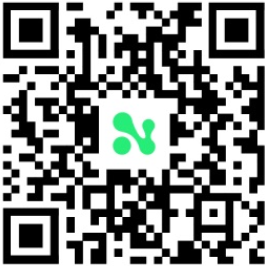
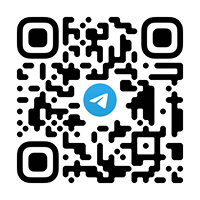
优化

diff --git a/src/pages/main/home/HomePage.tsx b/src/pages/main/home/HomePage.tsx
@@ -232,17 +232,19 @@ export function HomePage({ config = HOME_PAGE_CONFIG, purchasing = false, purcha
                 <div className="home-page__partners" aria-label={t('home.mediaTitle')} style={{ '--media-scroll-duration': `${config.mediaScrollDurationSeconds}s` } as CSSProperties}><PartnerRow start={0} /><PartnerRow start={10} /></div>
             </section>
             <footer className="home-page__footer">
-                <img className="home-page__footer-brand" src={`${APP_CONFIG.routeBase}${APP_CONFIG.brandWordmarkPath}`} alt={APP_CONFIG.name || 'NodeXX'} loading="lazy" />
+                <img className="home-page__footer-brand" src={`${APP_CONFIG.routeBase}${APP_CONFIG.brandWordmarkPath}`} alt={APP_CONFIG.name || 'NBXX'} loading="lazy" />
                 <p className="home-page__tagline tc size-24">{t('home.tagline')}</p>
-                <div className="home-page__contacts">
-                    <div className="home-page__links">
-                        <div><h3 className="home-page__link-heading size-24">{t('home.websiteLabel')}</h3><a className="home-page__link size-24" href={config.links.website} target="_blank" rel="noopener noreferrer">{config.links.website}</a></div>
-                        <a className="home-page__twitter" href={config.links.social} target="_blank" rel="noopener noreferrer" aria-label={t('home.twitterLabel')}>
-                            <span className="home-page__twitter-icon"><img src={HOME_ART.twitterIcon} alt="" /></span>
-                            <span className="home-page__twitter-text">{t('home.twitter')}</span>
-                        </a>
-                    </div>
-                    <div className="home-page__qr flex items-center justify-center"><img src={HOME_ART.communityQr} alt={t('home.communityQr')} loading="lazy" /></div>
+                <div className="home-page__social-links">
+                    <a className="home-page__twitter" href={config.links.social} target="_blank" rel="noopener noreferrer" aria-label={t('home.twitterLabel')}>
+                        <span className="home-page__twitter-icon"><img src={HOME_ART.twitterIcon} alt="" /></span>
+                        <span className="home-page__twitter-text">{t('home.twitter')}</span>
+                    </a>
+                    <a className="home-page__telegram" href={config.links.telegram} target="_blank" rel="noopener noreferrer" aria-label={t('home.telegramLabel')}>
+                        <img src={HOME_ART.telegramLink} alt="Telegram" loading="lazy" />
+                    </a>
+                    <a className="home-page__debox" href={config.links.debox} target="_blank" rel="noopener noreferrer" aria-label={t('home.deboxLabel')}>
+                        <img src={HOME_ART.deboxLink} alt="DeBox" loading="lazy" />
+                    </a>
                 </div>
             </footer>
             <Toast message={message} variant={variant} />

diff --git a/src/pages/main/home/HomePage.scss b/src/pages/main/home/HomePage.scss
@@ -287,12 +287,17 @@ html:has(.home-page) { @include hide-scrollbar; }
             pointer-events: none;
         }
     }
-    &__footer-brand { width: 238px; height: 52px; margin: 0 auto; object-fit: fill; }
+    &__footer-brand { width: 238px; height: 238px; margin: 0 auto; object-fit: contain; }
     &__tagline { min-height: 34px; margin-top: 20px; color: var(--app-text-muted); }
-    &__contacts { display: grid; grid-template-columns: minmax(0, 1fr) 200px; column-gap: 30px; margin-top: 60px; }
-    &__links { display: flex; flex-direction: column; align-items: flex-start; gap: 40px; min-width: 0; padding-top: 10px; }
-    &__link-heading { min-height: 34px; font-weight: 400; }
-    &__link { display: block; margin-top: 12px; color: var(--app-color); line-height: 33.599998474121094px; text-decoration: underline; overflow-wrap: anywhere; }
+    &__social-links { display: flex; flex-wrap: wrap; align-items: center; justify-content: center; gap: 20px; margin-top: 60px; }
+    &__debox, &__telegram {
+        display: inline-flex;
+        flex: none;
+        border-radius: 999px;
+        img { width: 159px; height: 60px; object-fit: contain; }
+        &:focus-visible { outline: 2px solid var(--app-color); outline-offset: 4px; }
+    }
+    &__telegram img { width: 191px; }
     &__twitter {
         display: inline-flex;
         align-items: center;
@@ -306,7 +311,6 @@ html:has(.home-page) { @include hide-scrollbar; }
     }
     &__twitter-icon { flex: none; width: 48px; height: 48px; border-radius: 999px; background: var(--app-btn-color); img { width: 100%; height: 100%; } }
     &__twitter-text { width: 81px; font-size: 24px; font-weight: 600; line-height: 33.599998474121094px; letter-spacing: 0; }
-    &__qr { width: 200px; height: 200px; border-radius: 20px; background: #FFFFFF; img { width: 168px; height: 168px; } }
 
     &--translated {
         .home-page__limited-align { padding-left: 0; }

diff --git a/src/pages/main/home/config.ts b/src/pages/main/home/config.ts
@@ -38,7 +38,7 @@ export interface HomePageConfig {
     invitationText: string
     teamMembers: readonly TeamMember[]
     mediaScrollDurationSeconds: number
-    links: { website: string; social: string }
+    links: { social: string; telegram: string; debox: string }
 }
 
 // Display values from Figma, not contract amounts or live platform statistics.
@@ -57,12 +57,12 @@ export const HOME_PAGE_CONFIG: HomePageConfig = {
         {
             id: 'basic', price: '500', supply: 1500,
             dividendRate: '3%', buyFee: '1.5%', sellFee: '1.5%',
-            dailyMiningRate: '0.5%', daoVotes: 5, taxRate: '2%', credit: '1000',
+            dailyMiningRate: '0.5%', daoVotes: 5, taxRate: '1%', credit: '1000',
         },
         {
             id: 'premium', price: '1000', supply: 500,
             dividendRate: '4%', buyFee: '1.5%', sellFee: '1.5%',
-            dailyMiningRate: '1%', daoVotes: 10, taxRate: '3%', credit: '3000',
+            dailyMiningRate: '1%', daoVotes: 10, taxRate: '2%', credit: '3000',
         },
     ],
     metrics: [
@@ -72,8 +72,9 @@ export const HOME_PAGE_CONFIG: HomePageConfig = {
         { id: 'personal-performance', labelKey: 'home.team.personalPerformanceUnit', value: '74,000.62', featured: false },
     ],
     links: {
-        website: 'https://www.nodexx.co/zh-CN',
-        social: 'https://x.com/NodeXX_cn',
+        social: 'https://x.com/bnxxapk?s=11',
+        telegram: 'https://t.co/plo9EMr0ak',
+        debox: 'https://m.debox.pro/group?id=jj2kzzwd&code=4jdvg695',
     },
 }
 

diff --git a/src/pages/main/home/assets.ts b/src/pages/main/home/assets.ts
@@ -1,4 +1,6 @@
 import footerBackground from '@/assets/home/footer-space-background-3e7247.png'
+import deboxLink from '@/assets/home/debox-link.png'
+import telegramLink from '@/assets/home/telegram-link.png'
 import heroBackground from '@/assets/home/hero-space-background-68905c.png'
 import crown from '@/assets/home/nft-crown.png'
 import orbLeft from '@/assets/home/hero-orb-left-5ad938.png'
@@ -21,7 +23,6 @@ import creditIcon from '@/assets/home/benefit-credit-46d70f.png'
 import contractIcon from '@/assets/home/assurance-contract-274b00.png'
 import limitedIcon from '@/assets/home/assurance-limited-784115.png'
 import shareholderIcon from '@/assets/home/assurance-shareholder-5b7961.png'
-import communityQr from '@/assets/home/community-qr.png'
 import twitterIcon from '@/assets/home/twitter-icon.svg'
 import inviteIcon from '@/assets/home/invite-friends.svg'
 import purchaseBag from '@/assets/home/purchase-bag.svg'
@@ -51,7 +52,7 @@ import partner19 from '@/assets/home/media-partner-row-bottom-10-4f1fe6.png'
 
 export const HOME_ART = {
     heroBackground, footerBackground, crown, orbLeft, orbRight, laurelLeft, laurelRight,
-    checked, communityQr, twitterIcon, inviteIcon, purchaseBag, purchaseArrow, lineLeft, lineRight,
+    checked, twitterIcon, telegramLink, deboxLink, inviteIcon, purchaseBag, purchaseArrow, lineLeft, lineRight,
 }
 
 export const NFT_ART = {

diff --git a/src/pages/main/layout/AppBrand/AppBrand.tsx b/src/pages/main/layout/AppBrand/AppBrand.tsx
@@ -36,7 +36,7 @@ export function AppBrand({
     }
 
     return (
-        <button type="button" className={brandClassName} aria-label={APP_CONFIG.name || 'NodeXX'} onClick={handleBrandClick}>
+        <button type="button" className={brandClassName} aria-label={APP_CONFIG.name || 'NBXX'} onClick={handleBrandClick}>
             <img
                 src={APP_CONFIG.brandWordmarkPath
                     ? `${APP_CONFIG.routeBase}${APP_CONFIG.brandWordmarkPath}`

diff --git a/src/config/app.ts b/src/config/app.ts
@@ -34,7 +34,7 @@ export const APP_LOGIN_MODE_OPTIONS = [
 
 export const APP_CONFIG = {
     name: import.meta.env?.VITE_APP_NAME ?? '',
-    brandWordmarkPath: 'brand/nodexx-wordmark.png',
+    brandWordmarkPath: 'brand/app-logo.png',
     showBrandName: false,
     routeBase: '/h5/',
     routerBasename: '/h5',

diff --git a/src/pages/auth/login/LoginPage.scss b/src/pages/auth/login/LoginPage.scss
@@ -26,7 +26,7 @@
         padding: 60px 0;
         animation-delay: 0.3s;
     }
-    &__logo { width: 320px; height: 160px; object-fit: contain; }
+    &__logo { width: 320px; height: 320px; object-fit: contain; }
     &__tips {
         position: relative;
         display: flex;

diff --git a/src/pages/main/layout/AppBrand/AppBrand.scss b/src/pages/main/layout/AppBrand/AppBrand.scss
@@ -8,7 +8,7 @@
     }
 
     &--wordmark &__logo {
-        width: 183px;
-        height: 40px;
+        width: 80px;
+        height: 80px;
     }
 }

diff --git a/PROJECT_SETUP_STATUS.md b/PROJECT_SETUP_STATUS.md
@@ -1,12 +1,12 @@
 # Project setup status
 # 项目初始化状态
 
-初始化默认配置与展示名称已确认并回填。Logo 和 Empty 资源已由开发者明确跳过，保留生产前补齐项。2026-09-28 开发者授权直接开展首页静态页面开发。
+初始化默认配置与展示名称已确认并回填。Logo 已补齐，Empty 资源仍保留生产前补齐项。2026-09-28 开发者授权直接开展首页静态页面开发。
 
 ## Confirmed
 ## 已确认
 
-- Project display name / 项目展示名称：`NodeXX`，用于浏览器标题和应用文案。
+- Project display name / 项目展示名称：`NBXX`，2026-10-08 开发者确认更名，用于浏览器标题和应用文案。
 - Route base / 部署目录：`/h5/`。
 - Home route / 首页路由：`/home`。
 - Layout menu / 导航模式：`sidebar`；开发者后续要求关闭侧栏图标，`sidebarMenuEnabled=false`，暂不显示入口及侧栏。
@@ -24,7 +24,7 @@ The package name remains fixed as `@jcy/template-react`. These confirmed default
 ## Skipped items and follow-up
 ## 已跳过项与补齐阶段
 
-- Project initialization logo / 项目初始化 Logo：开发者确认早期开发先跳过。正方形 PNG Logo 和由它生成的 favicon 在正式生产构建前补齐；`public/brand/brand-status.json` 的 `isProjectLogoReady` 保持 `false`，生产构建门禁继续生效。首页设计稿的横向 NodeXX 字标已下载，可用于对应页面图层，但不视为初始化 Logo 已就绪。
+- Project initialization logo / 项目初始化 Logo：2026-10-06 开发者提供500×500透明PNG金牛 NBXX Logo，替换 `public/brand/app-logo.png`，顶部、登录页及页脚统一引用并按正方形等比显示；已通过 `pnpm favicon:generate` 生成favicon，`isProjectLogoReady=true`。2026-10-08 展示名称更新为NBXX。
 - Empty-state icon / Empty 空状态图标：开发者确认早期开发先跳过，通用 Empty 组件继续使用模板占位资源；项目专属 PNG 图标准备好后，通过 `pnpm empty:asset -- --input <empty-icon.png>` 更新，并在正式页面验收前补齐。
 
 ## 当前开发阶段

diff --git a/src/pages/auth/login/README.md b/src/pages/auth/login/README.md
@@ -2,9 +2,9 @@
 
 独立 `/login`，不使用 MainLayout 或 PagePullRefresh。参考 `/Users/sly/react_work/HU_CHAIN_Dapp/src/pages/splash/` 的钱包开屏；不是其账号密码登录页。
 
-参考源样式：背景 #040404、底部提示 20px/#8D9094、进入动画延迟 0.3s。保留当前项目横向字标，用 320×160px 容器适配。
+参考源样式：背景 #040404、底部提示 20px/#8D9094、进入动画延迟 0.3s。使用开发者提供的金牛 NBXX 正方形 Logo，用 320×320px 容器等比适配。
 
-排列：居中品牌图片、底部状态提示及 loading，使用 Flex 正常流。星空是唯一 absolute 背景装饰。会话恢复结束后等待1秒入场动画，自动连接钱包、请求签名并登录；无钱包时底部提示使用钱包环境打开。按照开发者红框要求移除语言图标、NodeXX文字标题和所有授权按钮，没有邀请码输入框或授权表单。失败原因显示在底部；刷新后重新尝试，不循环弹签名。复用 Icon；外侧30px padding、品牌320px宽是当前横向资源适配值，不是 HU 原页实测尺寸。
+排列：居中品牌图片、底部状态提示及 loading，使用 Flex 正常流。星空是唯一 absolute 背景装饰。会话恢复结束后等待1秒入场动画，自动连接钱包、请求签名并登录；无钱包时底部提示使用钱包环境打开。按照开发者红框要求移除语言图标、NodeXX文字标题和所有授权按钮，没有邀请码输入框或授权表单。失败原因显示在底部；刷新后重新尝试，不循环弹签名。复用 Icon；外侧30px padding、品牌320px宽是当前资源适配值，不是 HU 原页实测尺寸。
 
 Galaxy shader 原样取自指定项目，参数与 splash 一致：density1.5、glow0.5、saturation0.8、hueShift240；使用原生 WebGL，无新增 ogl 依赖。WebGL不可用时保留黑底，隐藏页面/卸载释放动画，减少动态效果时静止。
 

diff --git a/src/pages/main/layout/README.md b/src/pages/main/layout/README.md
@@ -25,4 +25,4 @@ Menu labels use project translation keys from `src/i18n/locales/project/` and ar
 
 ## NodeXX 内容适配
 
-顶部仍高100px，保留钱包地址格式化与语言切换。侧栏入口及渲染由 APP_CONFIG.sidebarMenuEnabled 控制，当前按开发者要求关闭。AppBrand 使用横向字标并隐藏独立名称；原图地球作为语言控件内容。未连接显示本地化状态，不伪造设计示例钱包地址。staticPreview 仍隐藏钱包数据。
+顶部仍高100px，保留钱包地址格式化与语言切换。侧栏入口及渲染由 APP_CONFIG.sidebarMenuEnabled 控制，当前按开发者要求关闭。AppBrand 使用金牛 NBXX 正方形 Logo，图片尺寸80×80px（750px基准），隐藏独立名称；原图地球作为语言控件内容。未连接显示本地化状态，不伪造设计示例钱包地址。staticPreview 仍隐藏钱包数据。
